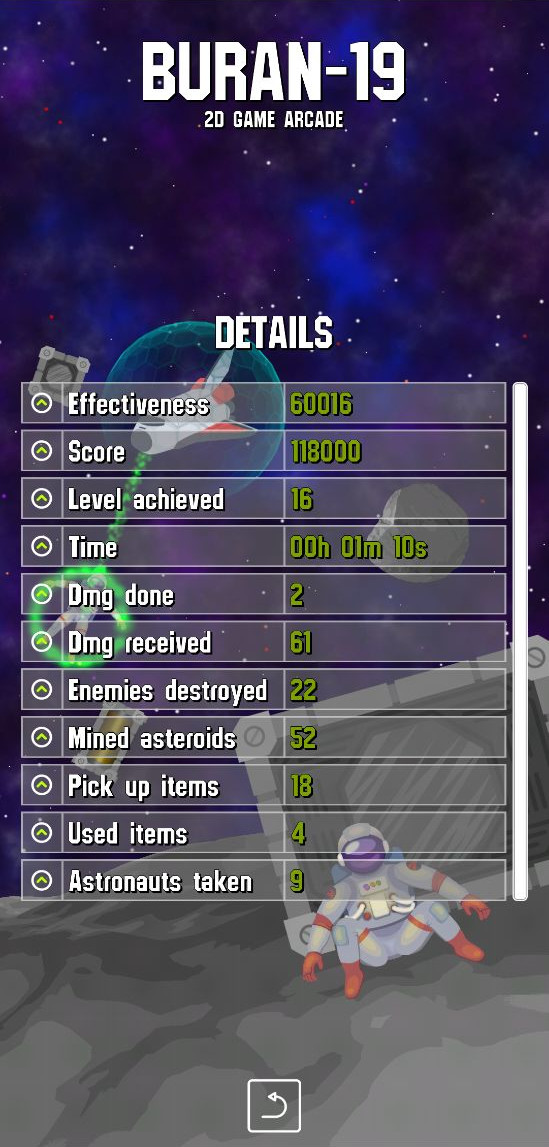
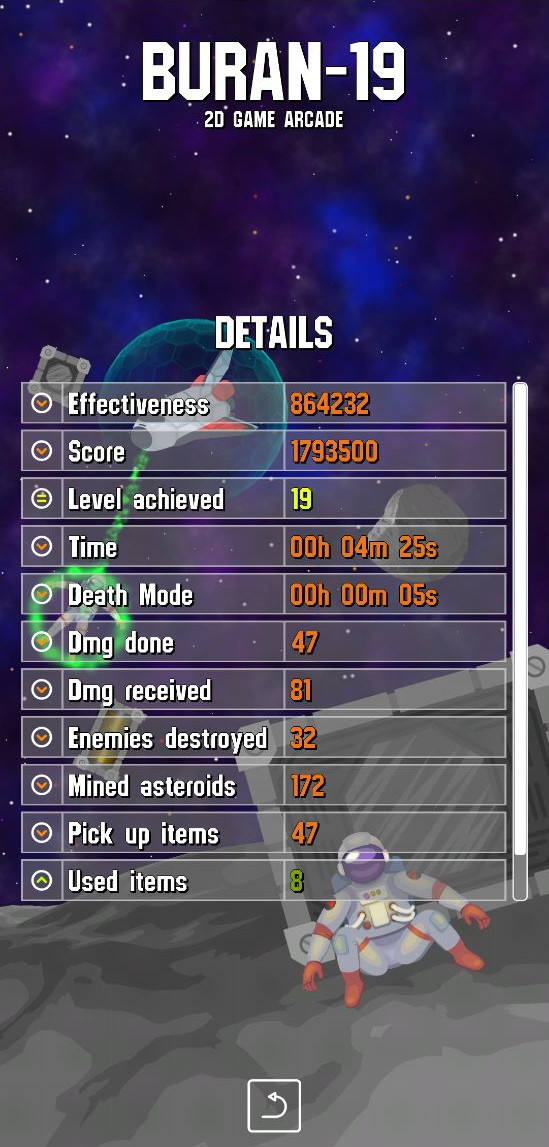
15) Delete useless fonts 16) Modify google pics 17) Crate/Storage -> 50% is danger 18) Start level 0 everywhere

diff --git a/core/src/com/buran/game/utils/Assets.java b/core/src/com/buran/game/utils/Assets.java
@@ -37,18 +37,14 @@ public class Assets {
         switch (type) {
             case MENU:
                 createStandardFont(32, "fonts/college.regular", "");
-                createStandardFont(54, "fonts/college.regular", "");
-                createStandardFont(48, "fonts/college.regular", "");
-                createStandardFont(48, "fonts/college.regular", "");
                 createStandardFont(44, "fonts/college.regular", "");
+                createStandardFont(48, "fonts/college.regular", "");
+                createStandardFont(54, "fonts/college.regular", "");
                 createStandardFont(64, "fonts/college.regular", "");
                 createStandardFont(72, "fonts/college.regular", "");
                 createStandardFont(96, "fonts/college.regular", "");
                 createStandardFont(128, "fonts/college.regular", "");
                 createStandardFont(175, "fonts/college.regular", "");
-                createStandardFont(180, "fonts/college.regular", "");
-                createStandardFont(188, "fonts/college.regular", "");
-                createStandardFont(256, "fonts/college.regular", "");
                 assetManager.load(MSConstants.MENU_SONG, Music.class);
                 assetManager.load(PaintConstants.GAME_PACK, TextureAtlas.class);
                 assetManager.load(PaintConstants.SKIN_FILE, Skin.class);
@@ -68,16 +64,14 @@ public class Assets {
                 createStandardFont(48, "fonts/college.regular", "");
                 createStandardFont(48, "fonts/college.regular", "Coloured");
                 createStandardFont(54, "fonts/college.regular", "");
-                createStandardFont(64, "fonts/college.regular", "");
-                createStandardFont(64, "fonts/college.regular", "Coloured");
                 createStandardFont(60, "fonts/college.regular", "");
                 createStandardFont(60, "fonts/college.regular", "Coloured");
+                createStandardFont(64, "fonts/college.regular", "");
                 createStandardFont(72, "fonts/college.regular", "");
                 createStandardFont(96, "fonts/college.regular", "");
                 createStandardFont(128, "fonts/college.regular", "");
                 createStandardFont(128, "fonts/college.regular", "Coloured");
-                createStandardFont(180, "fonts/college.regular", "");
-                createStandardFont(256, "fonts/college.regular", "");
+                createStandardFont(175, "fonts/college.regular", "");
                 assetManager.load(PaintConstants.GAME_PACK, TextureAtlas.class);
                 assetManager.load(MSConstants.MENU_SONG, Music.class);
                 assetManager.load(MSConstants.GAME_SONG, Music.class);

diff --git a/core/src/com/buran/game/conf/PaintConstants.java b/core/src/com/buran/game/conf/PaintConstants.java
@@ -374,23 +374,20 @@ public final class PaintConstants {
 
     public static final String SKIN_FILE = "uiskin/gameSkin.json";
     public static final String FONT32 = "fonts/college.regular32.ttf";
-    public static final String FONT36 = "fonts/college.regular36.ttf";
-    public static final String FONT54 = "fonts/college.regular54.ttf";
     public static final String FONT32_C = "fonts/college.regular32Coloured.ttf";
+    public static final String FONT36 = "fonts/college.regular36.ttf";
     public static final String FONT44 = "fonts/college.regular44.ttf";
     public static final String FONT48 = "fonts/college.regular48.ttf";
     public static final String FONT48_C = "fonts/college.regular48Coloured.ttf";
+    public static final String FONT54 = "fonts/college.regular54.ttf";
     public static final String FONT60 = "fonts/college.regular60.ttf";
     public static final String FONT60_C = "fonts/college.regular60Coloured.ttf";
     public static final String FONT64 = "fonts/college.regular64.ttf";
-    public static final String FONT64_C = "fonts/college.regular64Coloured.ttf";
     public static final String FONT72 = "fonts/college.regular72.ttf";
     public static final String FONT96 = "fonts/college.regular96.ttf";
     public static final String FONT128 = "fonts/college.regular128.ttf";
     public static final String FONT128_C = "fonts/college.regular128Coloured.ttf";
     public static final String FONT175 = "fonts/college.regular175.ttf";
-    public static final String FONT180 = "fonts/college.regular180.ttf";
-    public static final String FONT256 = "fonts/college.regular256.ttf";
     public static final String GAME_PACK = "pics/atlas/game.pack";
     public static final String LOAD_TEXTURES = "pics/load/";
     public static final String BACKGROUND_COLOR_HEX = "100514ff";
@@ -398,7 +395,7 @@ public final class PaintConstants {
     public static final float BACKGROUND_OSCILLATE_WIDTH = 50;
     public static final int DUMMY_PROFILES = 5;
     public static final int DUMMY_RESULTS = 14;
-    public static final int RESULTS_DETAILED = 11;
+    public static final int RESULTS_DETAILED = 12;
     public static final float NOTICE_BLINK_TIME = 1.0f;
 
     public static final String UI_YOUR_USERNAME = "Your profile username";

diff --git a/core/src/com/buran/game/conf/Rules.java b/core/src/com/buran/game/conf/Rules.java
@@ -346,7 +346,7 @@ public final class Rules {
                 Standing.getInstance().setMaxLifeShield(27);
                 Standing.getInstance().setLives(1);
                 Standing.getInstance().setRamMaxPower(PLAYER_MAX_POWER);
-                Standing.getInstance().setStartLevel(1);
+                Standing.getInstance().setStartLevel(0);
                 Standing.getInstance().setScore(0);
                 Standing.getInstance().setScoreView(0);
             }
@@ -363,7 +363,7 @@ public final class Rules {
                 Standing.getInstance().setMaxLifeShield(24);
                 Standing.getInstance().setLives(2);
                 Standing.getInstance().setRamMaxPower(PLAYER_MAX_POWER);
-                Standing.getInstance().setStartLevel(1);
+                Standing.getInstance().setStartLevel(0);
                 Standing.getInstance().setScore(0);
                 Standing.getInstance().setScoreView(0);
             }
@@ -380,7 +380,7 @@ public final class Rules {
                 Standing.getInstance().setMaxLifeShield(21);
                 Standing.getInstance().setLives(3);
                 Standing.getInstance().setRamMaxPower(PLAYER_MAX_POWER);
-                Standing.getInstance().setStartLevel(1);
+                Standing.getInstance().setStartLevel(0);
                 Standing.getInstance().setScore(0);
                 Standing.getInstance().setScoreView(0);
             }

diff --git a/core/src/com/buran/game/bot/consumable/Storage.java b/core/src/com/buran/game/bot/consumable/Storage.java
@@ -159,7 +159,13 @@ public class Storage extends AbstractConsumable {
 
     private void stickLabel() {
         for (int i = 0; i <= size.ordinal(); i++) {
-            boolean r = MathUtils.random(0, Rules.CONSUMABLE_STORAGE_DANGER_PROBABILITY) == 0;
+            boolean r;
+            if (Rules.DEATH_MODE) {
+                //50%
+                r = MathUtils.random(0, 1) == 0;
+            } else {
+                r = MathUtils.random(0, Rules.CONSUMABLE_STORAGE_DANGER_PROBABILITY) == 0;
+            }
             if (r) {
                 labels.get(Label.Layer.LABEL).get(i).setSticker(generateDanger());
                 danger = true;

diff --git a/core/src/com/buran/game/bot/consumable/Crate.java b/core/src/com/buran/game/bot/consumable/Crate.java
@@ -111,7 +111,13 @@ public class Crate extends AbstractConsumable {
     }
 
     private void stickLabel() {
-        boolean r = MathUtils.random(0, Rules.CONSUMABLE_CRATE_DANGER_PROBABILITY) == 0;
+        boolean r;
+        if (Rules.DEATH_MODE) {
+            //50%
+            r = MathUtils.random(0, 1) == 0;
+        } else {
+            r = MathUtils.random(0, Rules.CONSUMABLE_CRATE_DANGER_PROBABILITY) == 0;
+        }
         if (r) {
             labels.get(Label.Layer.LABEL).get(0).setSticker(generateDanger());
         } else {
